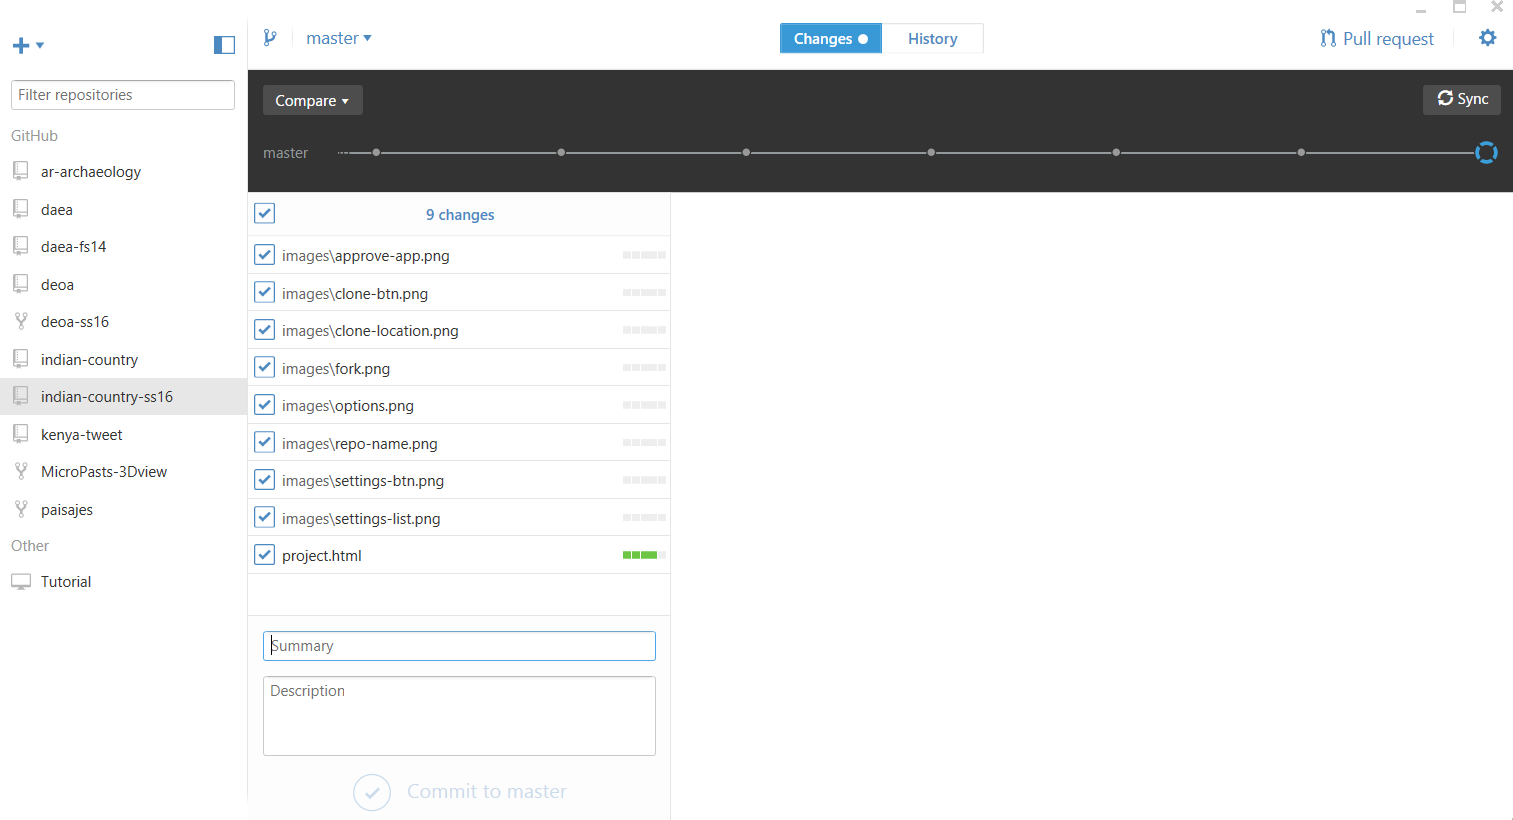
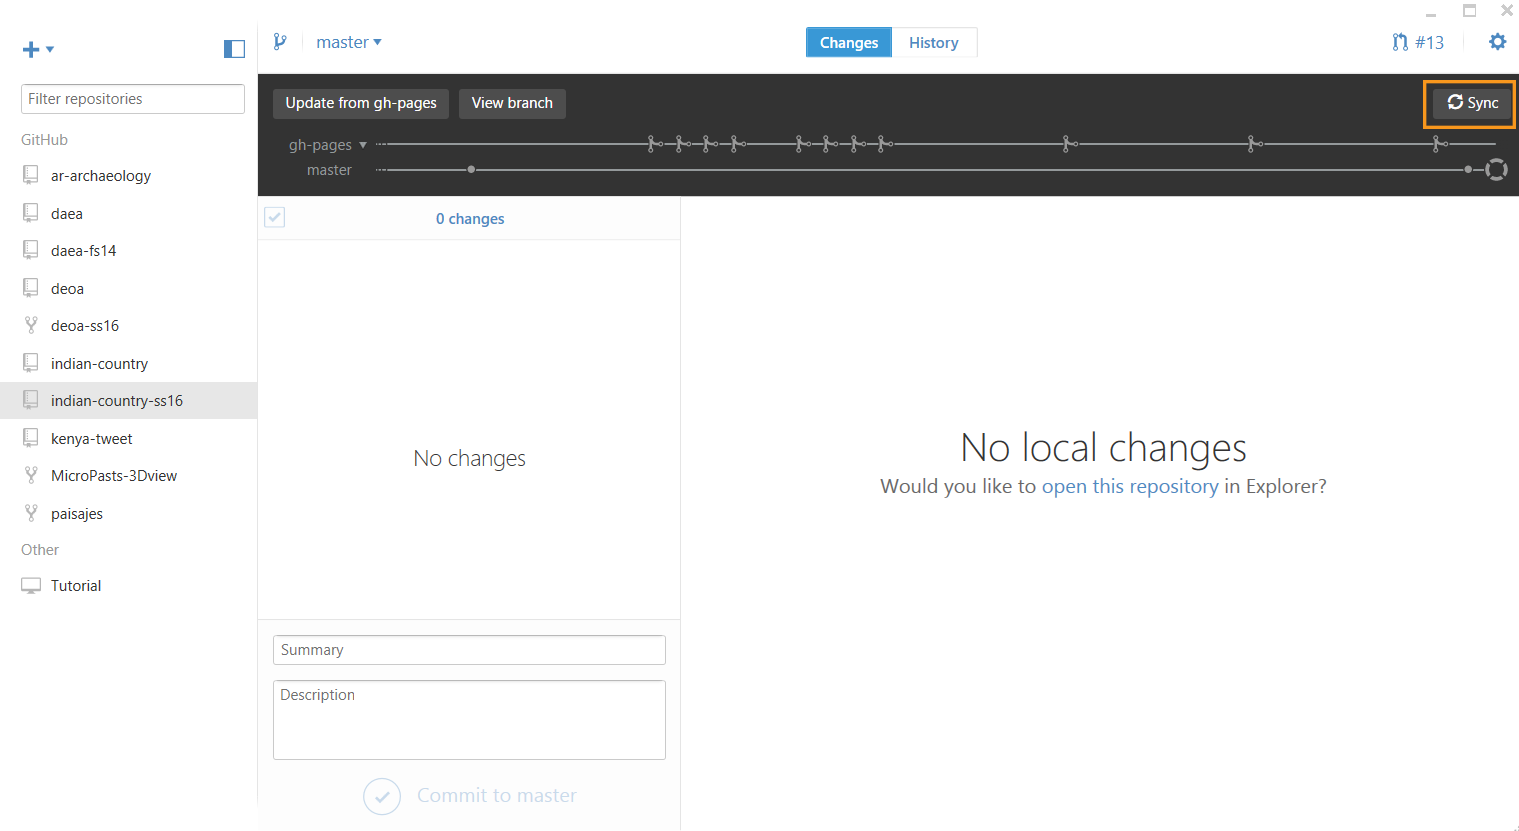
more tutorial changes

diff --git a/project.html b/project.html
@@ -144,12 +144,27 @@
 		<h3>Sync Clone to Original Repo</h3>
 		<hr>
 		<p>When you are ready, you can send all of your local changes to the original repo on GitHub by doing what is called a sync.</p>
-		<a href="images/approve-app.png" data-lightbox="."><img src="images/approve-app.png" style="margin: 2em; float: right; width: 40%" /></a>
+		<a href="images/sync-btn.png" data-lightbox="."><img src="images/sync-btn.png" style="margin: 2em; float: right; width: 60%" /></a>
+		<br>
+		<p>To sync your cloned repo to your original one, make sure you don't have any changes waiting to be committed. As you can see in this example, there are none listed.</p>
+		<p>Click the "Sync" button in the top-right and wait for the progress bar to completely fill from left to right.</p>
+		<div style="clear: both"></div>
+		<a href="images/change-branch-browser.png" data-lightbox="."><img src="images/change-branch-browser.png" style="margin: 2em; float: right; width: 60%" /></a>
+		<br>
+		<p>After this, return to the repo in your internet browser (at <a href="http://github.com">github.com</a>). If you have left your branch settings alone this entire time, you should notice that the file you've been changing will have more recent change times, as highlighted here. If you don't notice this, first check to see if you are looking at the proper branch.</p>
+		<p>Change the branch to the gh-pages one by clicking on the dropdown list highlighted in this image.</p>
+		<div style="clear: both"></div>
+		<a href="images/pull-request-btn.png" data-lightbox="."><img src="images/pull-request-btn.png" style="margin: 2em; float: right; width: 40%" /></a>
+		<br>
+		<p>After confirming that your changes have shown up (if they haven't, try re-syncing in the application and then refreshing the repo browser page), create a new Pull Request by clicking the Pull Request button.</p>
+		<div style="clear: both"></div>
+		
+		<a href="" data-lightbox="."><img src="images/approve-app.png" style="margin: 2em; float: right; width: 40%" /></a>
 		<br>
 		<p>This may open up a window that asks for permission to launch a program. Grant this permission.</p>
 		<div style="clear: both"></div>
 		
-		<a href="" data-lightbox="."><img src="images/approve-app.pn" style="margin: 2em; float: right; width: 40%" /></a>
+		<a href="" data-lightbox="."><img src="images/approve-app.png" style="margin: 2em; float: right; width: 40%" /></a>
 		<br>
 		<p>This may open up a window that asks for permission to launch a program. Grant this permission.</p>
 		<div style="clear: both"></div>
@@ -163,7 +178,6 @@
 		<br>
 		<p>This may open up a window that asks for permission to launch a program. Grant this permission.</p>
 		<div style="clear: both"></div>
-		
 		 
 		 
 		 
